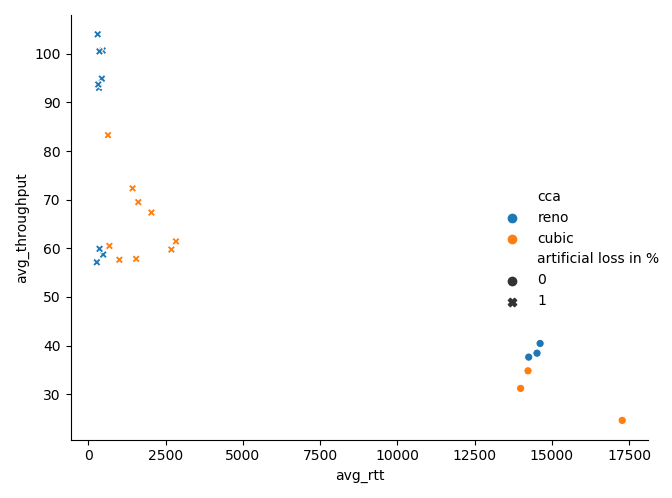
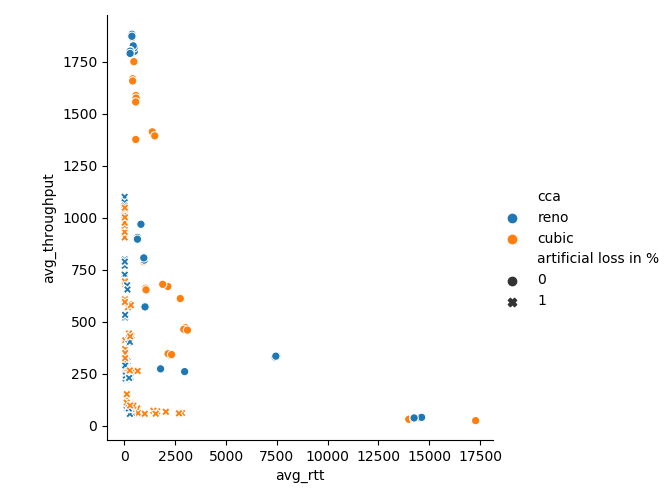
Reuploaded some graphics

diff --git a/server/analyze.py b/server/analyze.py
@@ -88,7 +88,7 @@ def plot_avg_rtt():
 
 
 def plot_throughput_delay_scatter():
-    params = get_tests(["metro"])
+    params = get_tests()
     columns = ["test_name", "avg_rtt", "avg_throughput", "artificial loss in %", "cca", "trace", "artificial delay"]
     accumulator = []
     for param in params:
@@ -107,7 +107,7 @@ def plot_throughput_delay_scatter():
 
 
 def plot_throughput_delay_line():
-    params = get_tests(traces=["metro"], losses=[0], delays=[100])
+    params = get_tests(traces=["bus"], losses=[0], delays=[5])
     accumulator = []
     columns = ["timestamp", "rtt", "throughput", "cca"]
     for param in params:
@@ -119,16 +119,16 @@ def plot_throughput_delay_line():
             col = data[rtt]
             data[rtt] = col.map(lambda x: round(x, -1))
             for _, row in data.iterrows():
-                if int(row[rtt]) > 0: #rtt == 0 indicates filler row due to lack of data
-                    accumulator.append([row[ts], row[rtt], row[tp], cca])
+                #if int(row[rtt]) > 0: #rtt == 0 indicates filler row due to lack of data
+                accumulator.append([row[ts], row[rtt], row[tp], cca])
 
     df = pd.DataFrame(np.array(accumulator), columns=columns)
     df.rtt = df.rtt.astype(float)
     df.timestamp = df.timestamp.astype(float)
     df.throughput = df.throughput.astype(float)
 
-    #sns.lineplot(x="rtt", y="throughput", data=df, hue="cca")
-    sns.lineplot(x="timestamp", y="rtt", data=df, hue="cca")
+    sns.lineplot(x="rtt", y="throughput", data=df, hue="cca")
+    #sns.lineplot(x="timestamp", y="rtt", data=df, hue="cca")
     plt.show()
 
 
